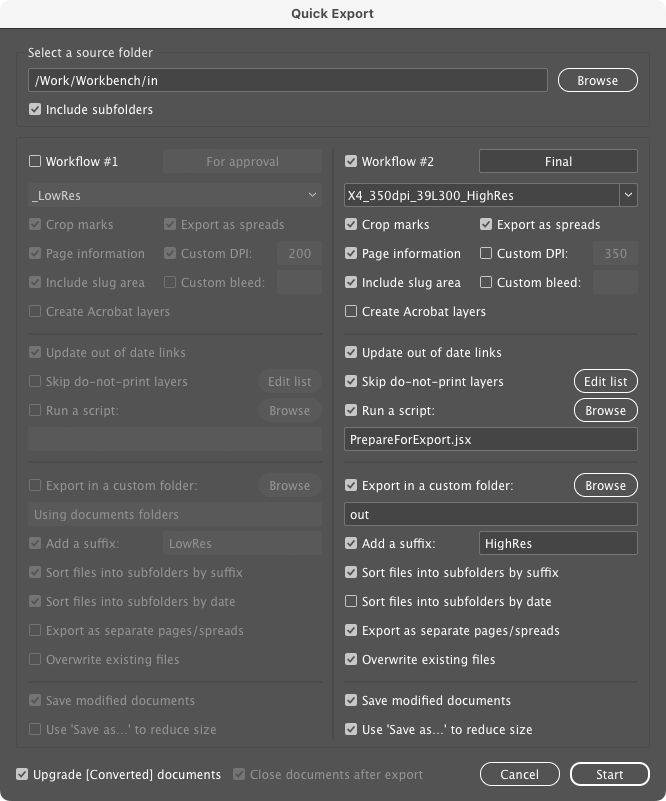
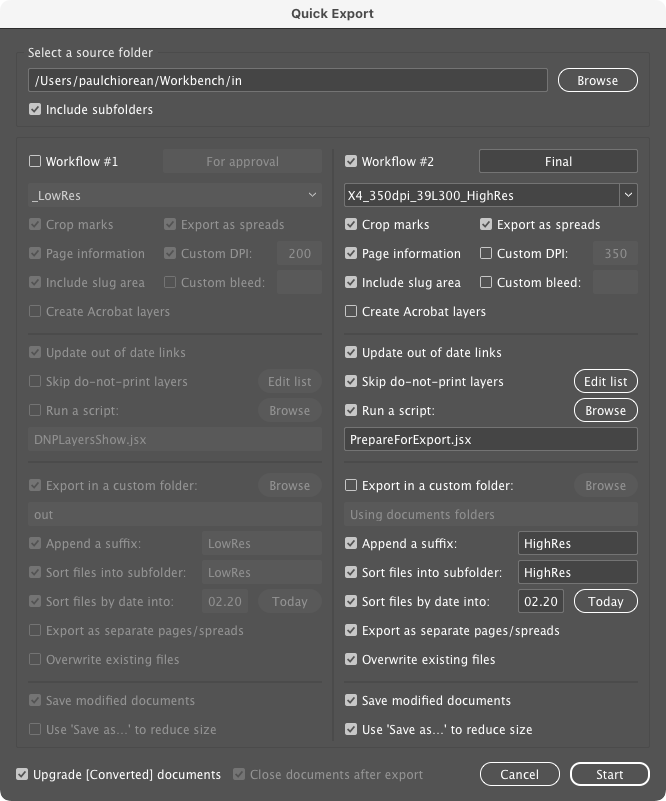
`doc` Update README

diff --git a/README.md b/README.md
@@ -26,7 +26,7 @@ These TSV data files can have several non-standard features that will confuse Ex
 
 **Libs:** Many scripts use dynamically linked functions from **`lib/`**, which means that the folder structure should be preserved after downloading the repository. If you download [releases](https://github.com/pchiorean/Indentz/releases)[^1] (which are statically linked), you can use every script stand-alone.
 
-Because there are quite a lot of files, the files are organized into categories based on their scope: document/spread/page-level, object-level, and miscellaneous.
+The scripts are organized into three categories based on their scope: document/spread/page-level, object-level, and miscellaneous, making it easier to navigate through the large number of files.
 
 ## Document
 
@@ -119,7 +119,7 @@ Replaces document fonts using a 4-columns [TSV data file](#tsv) named `fonts.tsv
 
 Replaces document links using a 2-columns [TSV data file](#tsv) named `links.tsv` ([sample](Samples/links.tsv)):
 
-| Relink to                       | Links                        |
+| Relink to                       | Document links               |
 |:--------------------------------|:-----------------------------|
 | **/absolute/path/to/img1.psd**  | img1_lowres.jpg, img1-rgb.\* |
 | **img2.psd**                    | img2.\*                      |
@@ -220,13 +220,13 @@ Two workflows are available, with options organized into several categories:
 
 - **Export in a custom folder:** Choose a different output location instead of the default source document folder.
 
-- **Add a suffix:** Appends this text to the exported file names.
+- **Append a suffix:** Appends this text to the exported file names.
   > 🎓 Add a suffix to a preset by including it after the _last_ underscore. For example, selecting preset `X4_350dpi_39L300_HighRes` will automatically set the suffix to `HighRes`.
 
-- **Sort files into subfolders by suffix**: Creates subfolders named after the suffix and sorts files accordingly.
-  > 🎓 It only uses the text before the first `+` character – for example, it creates `HighRes/` for the suffix `HighRes` and `HighRes/` for the suffix `HighRes+Diecut`.
+- **Sort files into subfolder:** Exports files into a subfolder of the selected output location. It defaults to the current suffix.
+  > ⚠ **Warning:** The text following a `+` is ignored (e.g., `HighRes+Diecut` becomes `HighRes`).
 
-- **Sort files into subfolders by date**: Creates subfolders named `MM.DD` (current month/day) and sorts files accordingly.
+- **Sort files by date into**: Exports files into a subfolder named `MM.DD` (month.day). It defaults to the current date.
 
 - **Export as separate pages/spreads**: Creates individual PDF files for each page or spread instead of a single multi-page document.
 
@@ -448,7 +448,7 @@ It works with file names structured like this:
 
 Dimensions use `WxH` format (e.g., `000x000`, where `000` represents one or more digits, optional decimals, and optional `mm` or `cm` units). The first pair sets page size, the second pair (if present) defines the _visible area_, and a following one- or two-digit number sets bleed. The script handles extra spaces and characters flexibly.
 
-> ⚠ **Warning:** For now the units are ignored: dimensions are always in millimeters.
+> ⚠ **Warning:** The units are ignored: dimensions are always in millimeters.
 
 **Example:**
 
@@ -765,14 +765,12 @@ The code in this project would not have been possible without the InDesign Exten
 
 Special thanks to Adrian Frigioiu and others for bug reports and feedback.
 
-I also thank DeepL, Grammarly and lately Claude for helping me 'massage' my language into more natural English. :)
-
 ## License
 
 © 2020-2025 Paul Chiorean \<jpeg@basement.ro\>.\
 The code is released under the [MIT License](License.txt).
 
-Last updated: February 8, 2025
+Last updated: February 21, 2025
 
 [^1]: Releases may be a little old. The latest version is in the [dev](https://github.com/pchiorean/Indentz/tree/dev) branch, which is what I actually use, so it's relatively tested, but… beware. ;)
 
